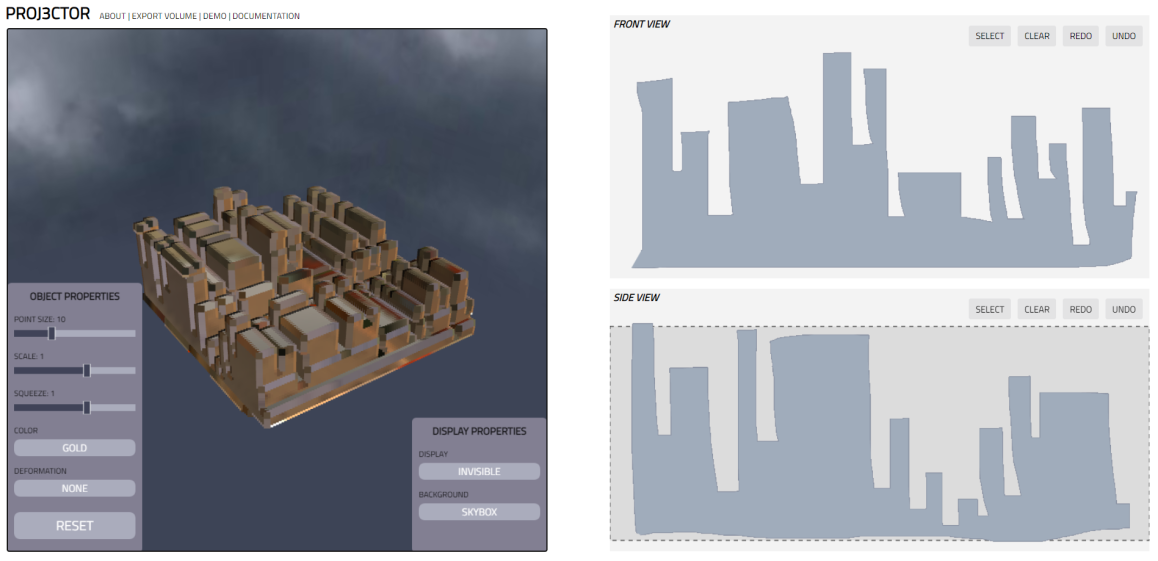
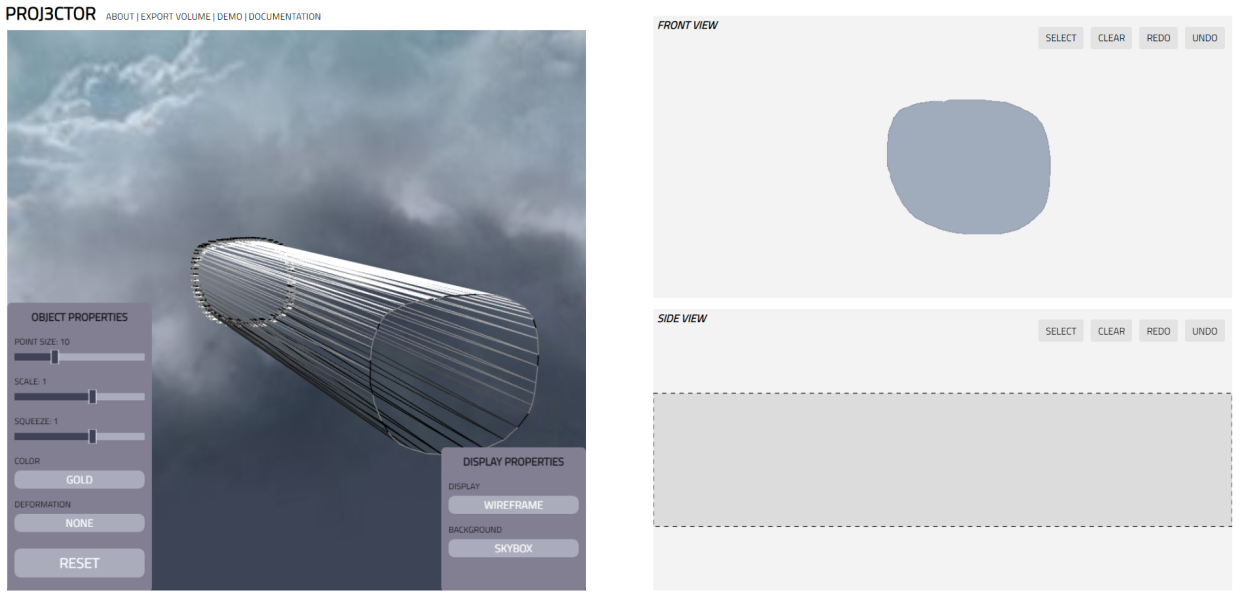
demo page update, readme update, more screenshots

diff --git a/html/demo.html b/html/demo.html
@@ -28,13 +28,6 @@
     }
 
     div {
-      margin-top: -250px;
-      margin-left: -400px;
-      width: 800px;
-      height: 500px;
-      position: absolute;
-      top: 50%;
-      left: 50%;
       text-align: center;
     }
 
@@ -48,16 +41,105 @@
       text-decoration: none;
     }
 
+    img {
+      width: 600px;
+      height: 300px;
+    }
+
     #credit {
         font-style: italic;
+    }
+
+    .title {
+      margin-top: 100px;
+      font-size: 25px;
+    }
+
+    .first {
+      margin-top: 30px;
+    }
+
+    .paragraph {
+      margin-top: 70px;
+    }
+
+    .end {
+      margin-top: 70px;
+      margin-bottom: 100px;
     }
 
     </style>
 </head>
 
 <body>
-    <div>
-        <h1>COMING SOON!</h1>
-        <a href="implicit.html">HOME</a>
+    <div class="title">
+        <h1>DEMO</h1>
+    </div>
+    <div></div>
+    <div class="first">
+        <h2>FIRST STEPS</h2>
+        <p>The blank starting screen of PROJ3CTOR looks like this:</p>
+        <img src="../screenshots/1.png" alt="Blank Main Page">
+        <p>Let's start with something simple! Begin by drawing a circle on the <strong>FRONT VIEW</strong> screen.</p>
+        <img src="../screenshots/2.png" alt="Circle 1">
+        <p>As you can see, our input has been replicated on the 3D viewer to the left. Let's draw another circle on the <strong>SIDE VIEW</strong> screen.</p>
+        <img src="../screenshots/3.png" alt="Circle 2">
+    </div>
+    <div class="paragraph">
+        <p>And that's it! The created 3D volume can now be viewed and altered on the left. Toggle the Display button until it says <strong>INVISIBLE</strong> to see the object more clearly.</p>
+        <img src="../screenshots/8.png" alt="Solid Mode">
+        <img src="../screenshots/4.png" alt="Invisible Mode">
+      </div>
+      <div class="paragraph">
+        <p>From here, we can change the material of the object:</p>
+        <img src="../screenshots/5.png" alt="Blue Material">
+        <img src="../screenshots/6.png" alt="Red Material">
+        <img src="../screenshots/7.png" alt="Silver Material">
+      </div>
+      <div class="paragraph">
+        <p>Or the background:</p>
+        <img src="../screenshots/9.png" alt="Navy Background">
+        <img src="../screenshots/10.png" alt="Gray Background">
+      </div>
+      <div class="paragraph">
+        <p>We can also edit the point size, scaling, and squeeze:</p>
+        <img src="../screenshots/11.png" alt="Point Size">
+        <img src="../screenshots/13.png" alt="Scaling">
+        <img src="../screenshots/15.png" alt="Squeeze">
+    </div>
+    <div class="paragraph">
+        <h2>DEFORMATIONS</h2>
+        <p>Next, click on the Deform button to try out some deforms.</p>
+        <img src="../screenshots/17.png" alt="Cylindrical">
+        <img src="../screenshots/20.png" alt="Spherical">
+        <img src="../screenshots/23.png" alt="Spiral">
+      </div>
+      <div class="paragraph">
+        <p>We can also modify the object in a specific area using the selection tool. Toggle the <strong>SELECT</strong> button on either of the right screens.</p>
+        <img src="../screenshots/27.png" alt="Selecting 1">
+        <img src="../screenshots/28.png" alt="Selecting 2">
+        <img src="../screenshots/29.png" alt="Selecting 3">
+    </div>
+    <div class="paragraph">
+        <h2>EXAMPLES</h2>
+        <p>That's pretty much it! You can further modify the object using the variety of sliders on the bottom left. PROJ3CTOR can be used to create simple volumes:</p>
+        <img src="../screenshots/25.png" alt="Cube">
+        <img src="../screenshots/30.png" alt="Pyramid">
+    </div>
+    <div class="paragraph">
+        <p>Or more complex objects, especially after deformations:</p>
+        <img src="../screenshots/31.png" alt="Cityscape">
+        <img src="../screenshots/33.png" alt="Cityscape 2">
+        <img src="../screenshots/35.png" alt="Cityscape 3">
+        <img src="../screenshots/42.png" alt="Plant">
+        <img src="../screenshots/43.png" alt="Cylinder">
+        <img src="../screenshots/44.png" alt="Stretched Cylinder">
+        <img src="../screenshots/45.png" alt="Stretched Sphere">
+        <img src="../screenshots/47.png" alt="Wave">
+        <img src="../screenshots/48.png" alt="Spikes">
+        <img src="../screenshots/49.png" alt="Letters">
+    </div>
+    <div class="end">
+      <a href="implicit.html">HOME</a>
     </div>
 </body>

diff --git a/README.md b/README.md
@@ -2,8 +2,8 @@
 While we live in a 3-dimensional world, often it is easier to visualize and brainstorm in 2-dimensional environments. PROJ3CTOR was created to try and combine the simple, precise intuitiveness of 2D sketching and the more robust, dynamic interaction afforded by 3D spaces. Created over the summer of 2021, PROJ3CTOR is a 3D modeling application that creates 3D volumes from the intersection of input from two 2D screens. It uses implicit surfaces and point rendering, and is written in Javascript, Babylon.js, and HTML/CSS. Access the tool at `./html/implicit.html` or [this website](https://www.its.caltech.edu/~lgao/html/implicit.html).
 
 ## Instructions
-#### FRONT VIEW 
-> Click and drag to draw on this screen first. Input from this screen will be extruded straight outwards and shown live on the 3D viewer. On mouseup, the boundaries of the sketch will show up as a dashed, grey box on the perpendicularly positioned second screen to help the user determine where to begin drawing. 
+#### FRONT VIEW
+> Click and drag to draw on this screen first. Input from this screen will be extruded straight outwards and shown live on the 3D viewer. On mouseup, the boundaries of the sketch will show up as a dashed, grey box on the perpendicularly positioned second screen to help the user determine where to begin drawing.
 
 #### SIDE VIEW
 > Draw on this screen with the help of the outline from the first screen. Anything on this screen will be projected perpendicularly outwards as well, intersecting the input from the first screen.
@@ -17,7 +17,7 @@ After drawing on both screens, either continue drawing on the entire screens or 
 This repository contains all files I created and edited during my SURF research project, so some are not applicable to PROJ3CTOR, and instead are quick demonstrations or explorations for familiarization. Below outlined are the important files for PROJ3CTOR:
 - `./html/implicit.html` - the front-end of PROJ3CTOR, uses HTML/CSS
 - `./html/about.html` - linked from the main page, is an about page
-- `./html/demo.html` - linked from the main page, contains screenshots and videos of how to use PROJ3CTOR
+- `./html/demo.html` - linked from the main page, contains screenshots and instructions on how to use PROJ3CTOR
 - `./javascript/implicitsurfaces/screen3d.js` - everything that deals with 3D and Babylon.js, includes point rendering and deformations
 - `./javascript/implicitsurfaces/screen1.js` - powers the `FRONT VIEW` screen
 - `./javascript/implicitsurfaces/screen2.js` - controls the `SIDE VIEW` screen
@@ -29,7 +29,7 @@ Hopefully, future work will increase functionality of this tool. I would like to
 - UI improvements and features
 - working `clear`, `redo`, and `undo` functions
 - marching cubes to make surfaces smoother (was worked on in `./javascript/implicitsurfaces/marching.js` and `./javascript/implicitsurfaces/marching2.js`, but is unfinished
-- make export include faces and triangles 
+- make export include faces and triangles
 
 ## Credits
 *This project was created under the mentorship of Santiago Lombeyda and George Djorgovski for SURF 2021.*
